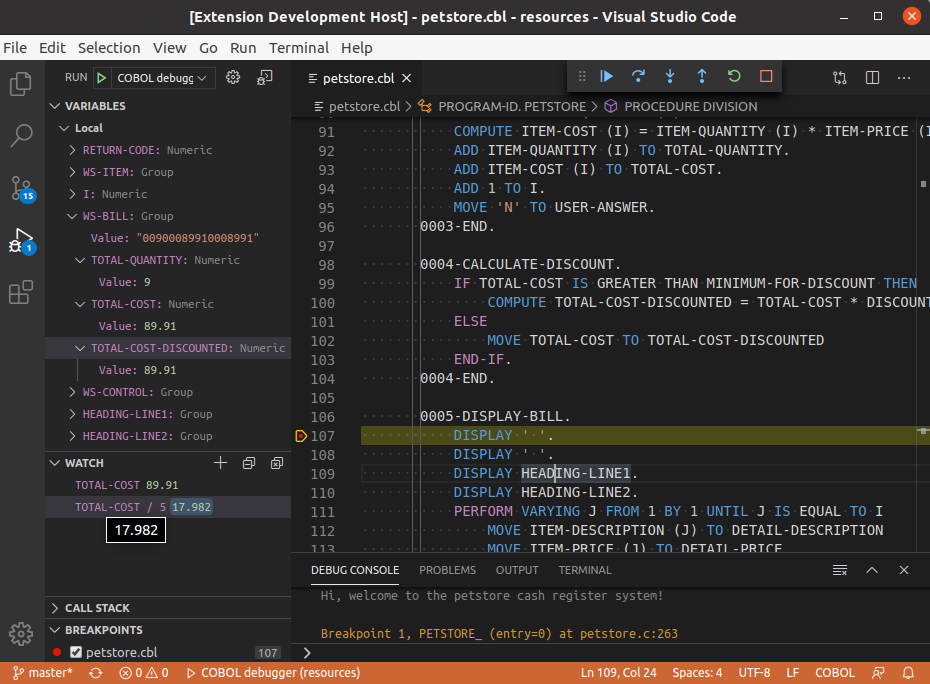
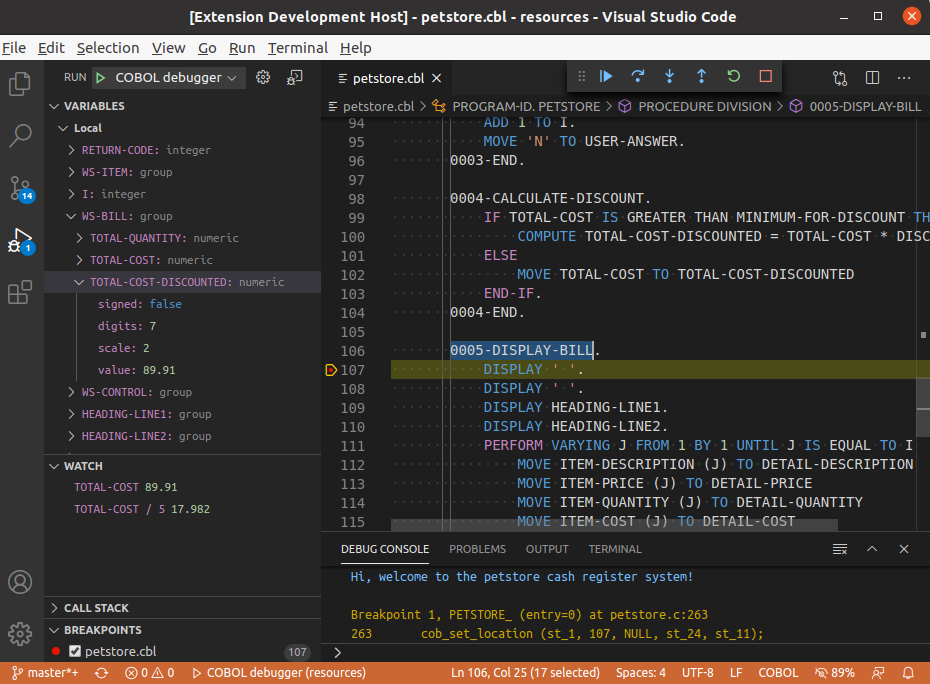
* Fix malformed linespec error * Remove call of cob_display

diff --git a/CHANGELOG.md b/CHANGELOG.md
@@ -1,3 +1,7 @@
+## 0.31.22
+* Fix malformed linespec error [Issue #53](https://github.com/OlegKunitsyn/gnucobol-debug/issues/53) by Bruno Pacheco
+* Remove call of cob_display [Issue #54](https://github.com/OlegKunitsyn/gnucobol-debug/issues/54) by Bruno Pacheco
+
 ## 0.31.21
 * Implement expressions in Watch pane [Issue #44](https://github.com/OlegKunitsyn/gnucobol-debug/issues/44) by Bruno Pacheco
 
